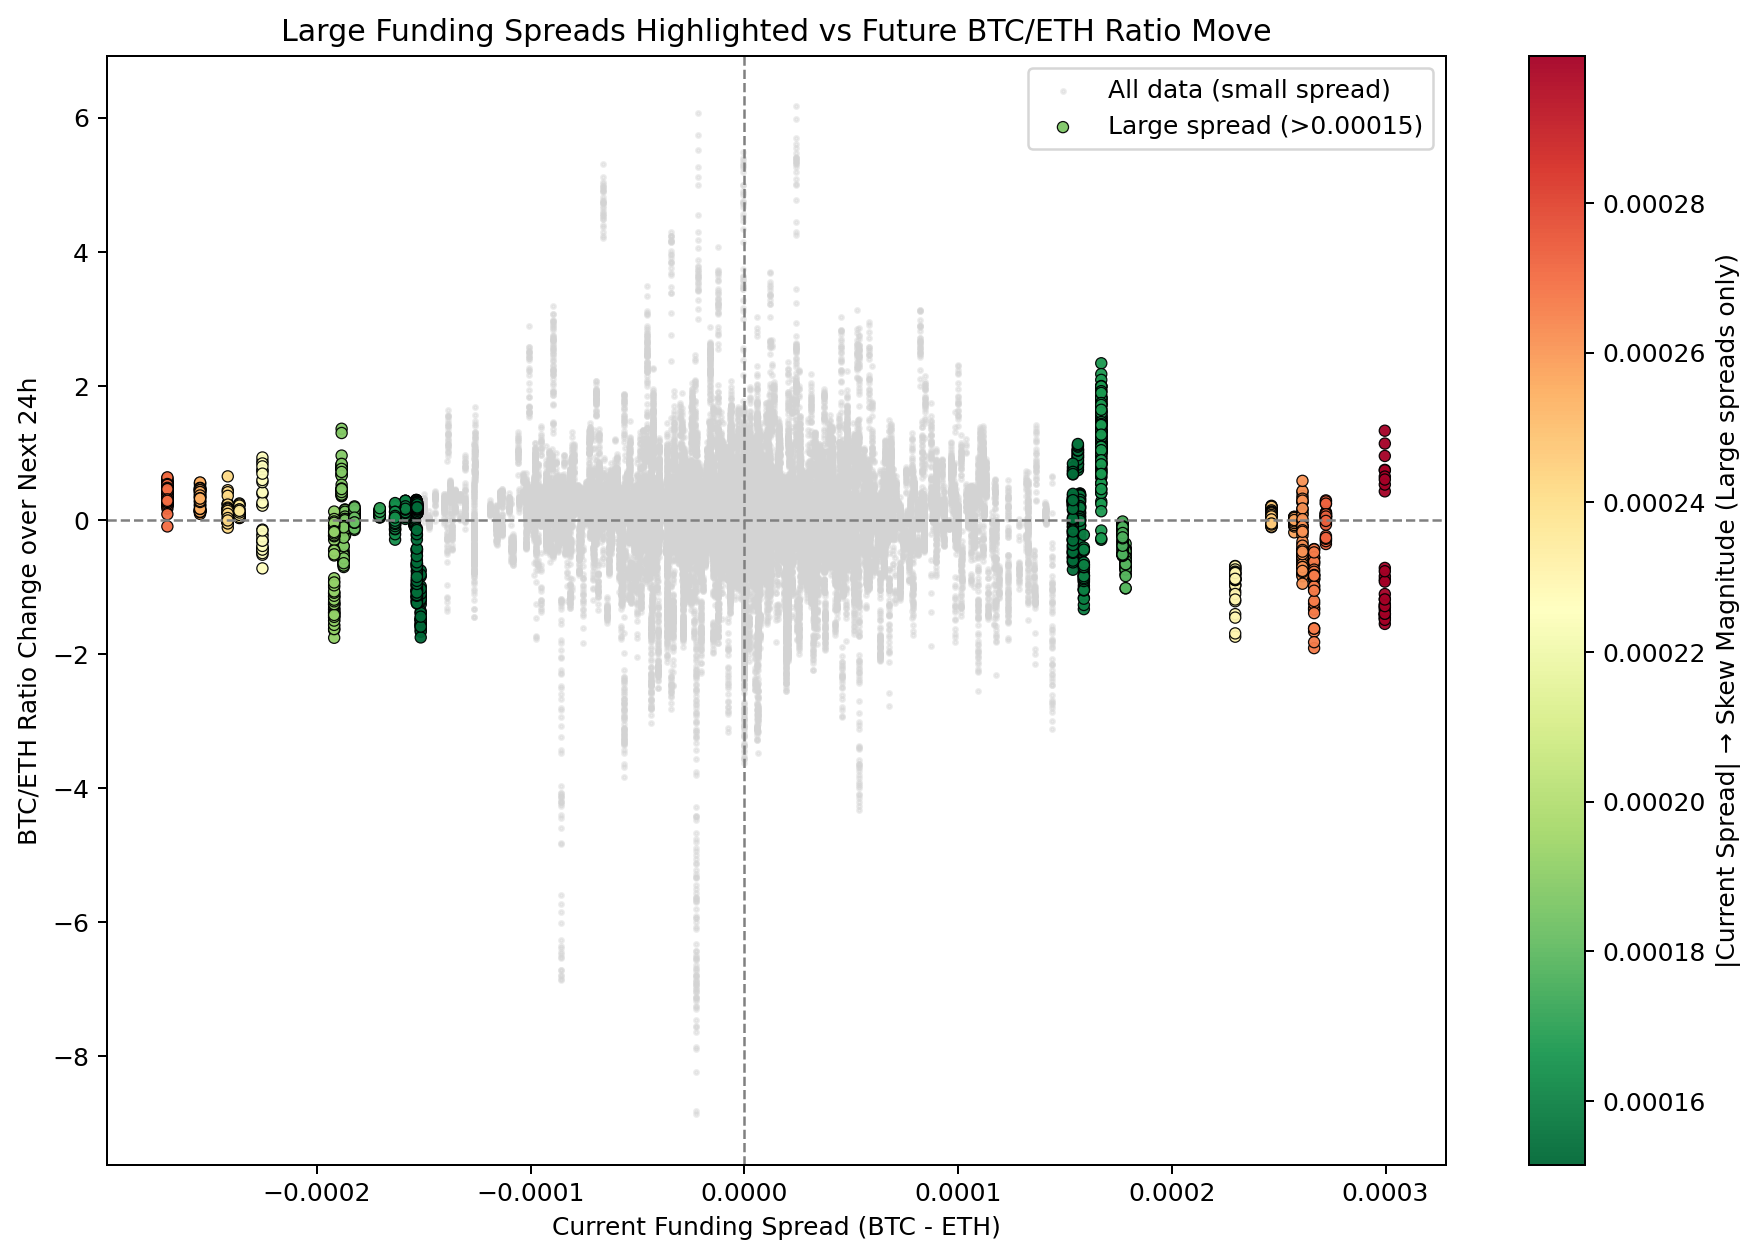
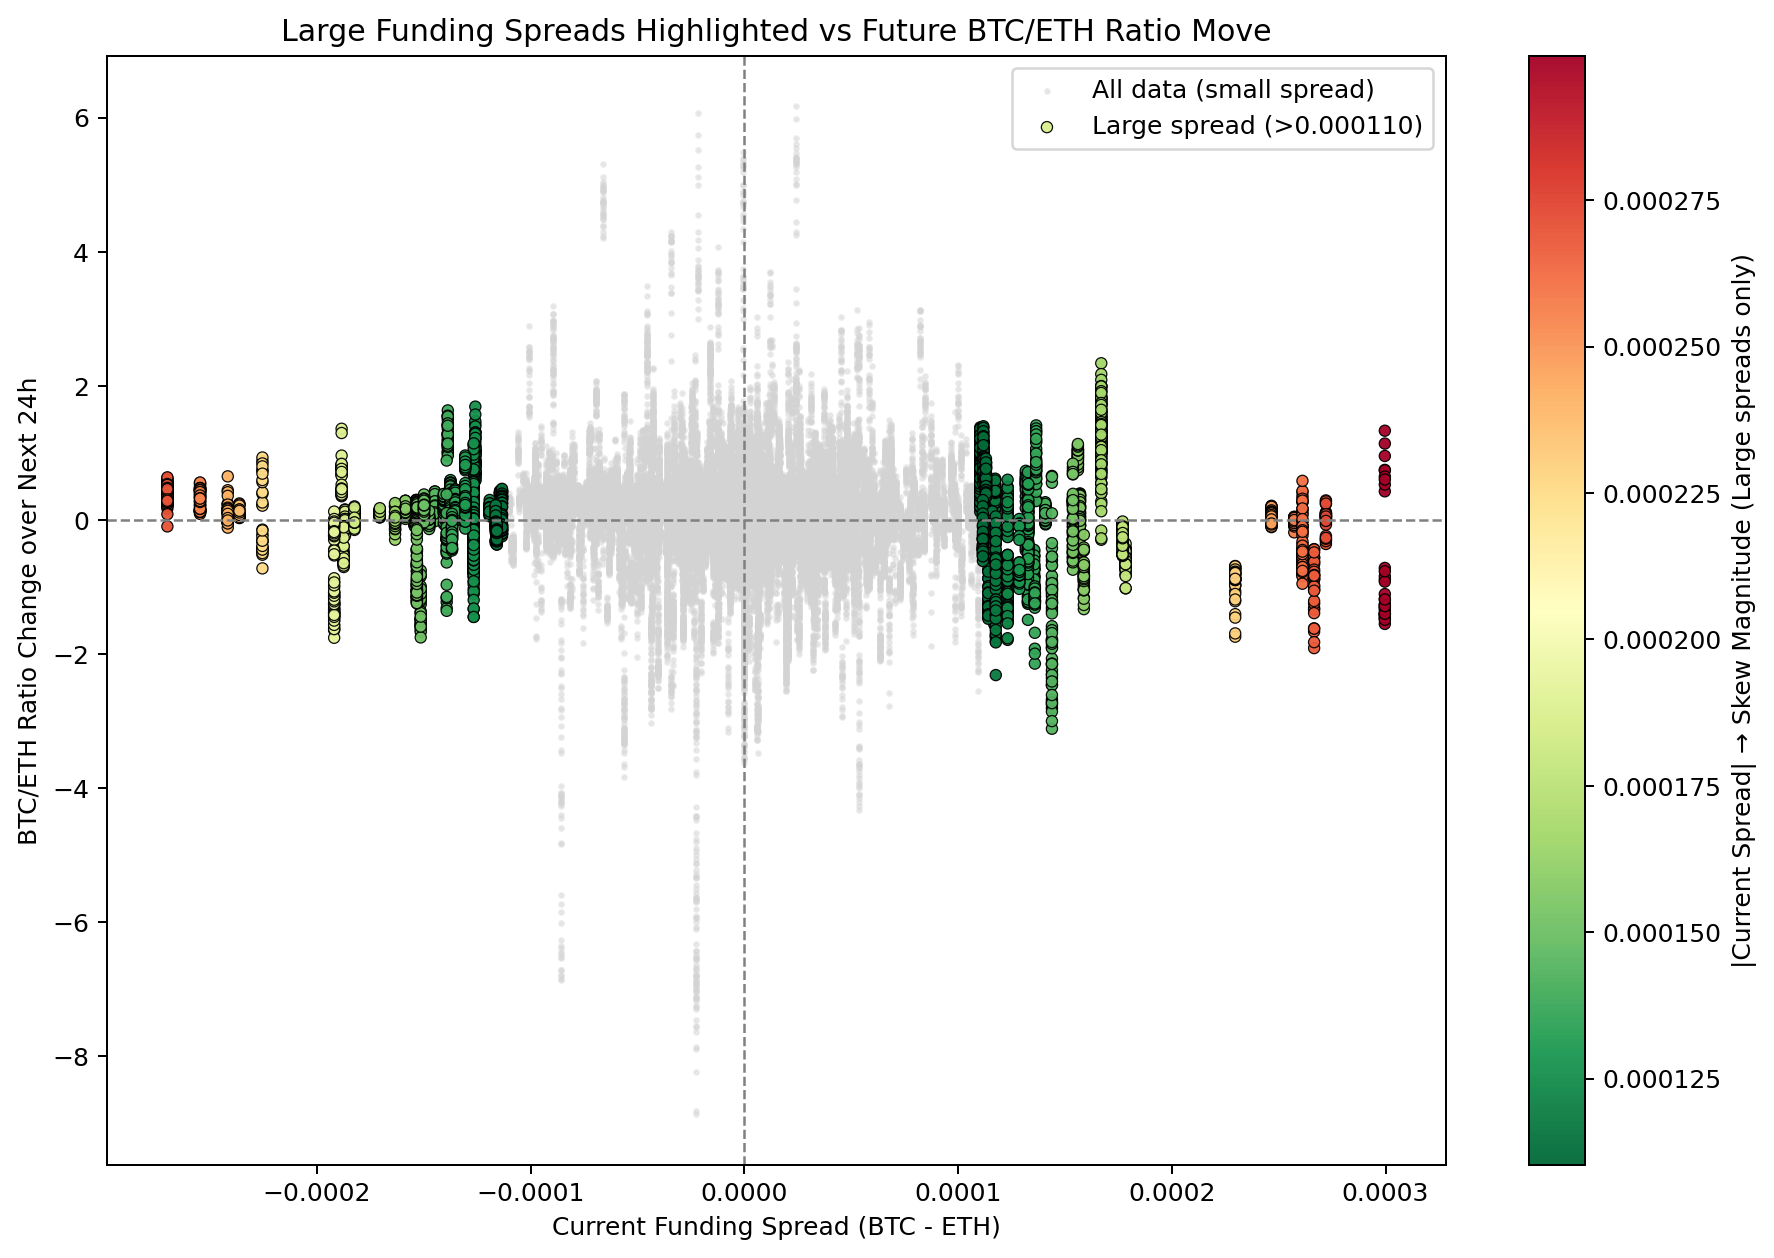
dynamically adjusted red lines

diff --git a/src/funding_and_oi/analyzeData.py b/src/funding_and_oi/analyzeData.py
@@ -21,7 +21,13 @@ print(f"Spread skewness: {stats.skew(df['funding_spread']):.3f}")
 
 abs_spread = np.abs(df['funding_spread'])
 
+# === DYNAMIC LARGE SPREAD THRESHOLD (top 5% largest spreads) ===
+large_spread_threshold = df['funding_spread'].abs().quantile(0.95)
+print(f"\n=== LARGE FUNDING SPREAD THRESHOLD (dynamic) ===")
+print(f"Top 5% largest |spread| threshold: {large_spread_threshold:.6f}")
+
 # ====================== MAIN PNG ======================
+# (unchanged - same as before)
 fig_main = plt.figure(figsize=(16, 22), constrained_layout=True)
 
 ax1 = fig_main.add_subplot(4, 1, 1)
@@ -66,6 +72,7 @@ fig_main.suptitle(f'BTC-ETH Funding Main Analysis\n{df.index[0].date()} — {df.
 plt.savefig('btc_eth_funding_main.png', dpi=180, bbox_inches='tight', facecolor='white')
 
 # ====================== EXTRA PNG ======================
+# (unchanged)
 fig_extra = plt.figure(figsize=(16, 9), constrained_layout=True)
 
 ax5 = fig_extra.add_subplot(1, 2, 1)
@@ -96,11 +103,12 @@ plt.figure(figsize=(12, 8))
 plt.scatter(df['funding_spread'], df['ratio_24h_change'],
             c='lightgray', s=3, alpha=0.4, label='All data (small spread)')
 
-large_mask = abs_spread > 0.00015
+large_mask = abs_spread > large_spread_threshold
 sc3 = plt.scatter(df.loc[large_mask, 'funding_spread'], 
                   df.loc[large_mask, 'ratio_24h_change'],
                   c=abs_spread[large_mask], cmap='RdYlGn_r', s=20, alpha=0.95, 
-                  edgecolor='black', linewidth=0.5, label='Large spread (>0.00015)')
+                  edgecolor='black', linewidth=0.5, 
+                  label=f'Large spread (>{large_spread_threshold:.6f})')
 
 plt.colorbar(sc3, label='|Current Spread| → Skew Magnitude (Large spreads only)')
 plt.axhline(0, color='gray', ls='--', lw=1)
@@ -120,12 +128,13 @@ print(f"\n=== PREDICTING LARGE BTC/ETH RATIO MOVES (top 10% magnitude) ===")
 print(f"Large move threshold (|24h ratio change|): {large_ratio_threshold:.4f}")
 
 baseline = df['large_ratio_move'].mean()
-when_large_spread = df[abs_spread > 0.00015]['large_ratio_move'].mean()
+when_large_spread = df[abs_spread > large_spread_threshold]['large_ratio_move'].mean()
 
 print(f"Baseline probability of large move: {baseline:.1%}")
-print(f"When |spread| > 0.00015 → probability of large move: {when_large_spread:.1%}")
+print(f"When |spread| > {large_spread_threshold:.6f} → probability of large move: {when_large_spread:.1%}")
 print(f"Lift: {when_large_spread / baseline:.2f}x more likely")
 
+# (rest of the large ratio moves chart unchanged)
 plt.figure(figsize=(12, 8))
 plt.scatter(df['funding_spread'], df['ratio_24h_change'],
             c='lightgray', s=3, alpha=0.4)
@@ -150,14 +159,13 @@ big_div = df.nlargest(10, 'funding_spread_abs')
 print("\nTop 10 largest funding spreads and 24h BTC/ETH ratio change afterward:")
 print(big_div[['funding_spread', 'ratio_24h_change']].round(6))
 
-# ====================== SIMPLE SINGLE-LINE 14D FUNDING SPREAD CHART (KST) ======================
-print("\nGenerating Simple 14D Funding Spread Chart (single line, tight Y, KST)...")
+# ====================== SIMPLE SINGLE-LINE 14D FUNDING SPREAD CHART (KST + DYNAMIC LARGE SPREAD LINES) ======================
+print("\nGenerating Simple 14D Funding Spread Chart (KST + dynamic large-spread lines)...")
 
 end_time = df.index.max()
 start_time = end_time - pd.Timedelta(days=14)
 recent_df = df[(df.index >= start_time) & (df.index <= end_time)].copy()
 
-# Convert to KST (UTC+9, no DST)
 recent_df = recent_df.copy()
 recent_df.index = recent_df.index.tz_localize('UTC').tz_convert('Asia/Seoul')
 
@@ -170,23 +178,27 @@ fig, ax = plt.subplots(figsize=(15, 8.5))
 
 spread_scaled = recent_df['funding_spread'] * 1_000_000
 
-# Clean single purple line only
 ax.plot(recent_df.index, spread_scaled, 
         color='purple', lw=3.5, marker='o', markersize=3.5, 
         label='BTC-ETH Funding Spread (Delta)')
 
 ax.axhline(0, color='black', ls='--', lw=1.5)
 
-# Tight Y-zoom focused only on the actual spread values
+# === DYNAMIC LARGE SPREAD THRESHOLDS ===
+large_spread_scaled = large_spread_threshold * 1_000_000
+ax.axhline(large_spread_scaled, color='red', ls='--', lw=1.8, alpha=0.85, 
+           label=f'Large Spread Threshold (±{large_spread_threshold:.6f})')
+ax.axhline(-large_spread_scaled, color='red', ls='--', lw=1.8, alpha=0.85)
+
+# Tight Y-zoom that always shows the thresholds
 data_min = spread_scaled.min()
 data_max = spread_scaled.max()
-data_range = data_max - data_min
-if data_range < 0.1:
-    data_range = 1.0
+data_range = max(data_max - data_min, 1.0)
 padding = 0.25 * data_range
-ax.set_ylim(data_min - padding, data_max + padding)
+ax.set_ylim(min(data_min - padding, -large_spread_scaled*1.15), 
+            max(data_max + padding, large_spread_scaled*1.15))
 
-# Big current-value annotation
+# Current-value annotation
 current_spread = recent_df['funding_spread'].iloc[-1]
 current_scaled = current_spread * 1_000_000
 
@@ -199,11 +211,10 @@ ax.annotate(f'CURRENT SPREAD\n{current_spread:+.8f}\n({current_scaled:+.2f} ×10
 
 ax.set_title('BTC - ETH Funding Rate Difference (Last 14 Days)', fontsize=18, fontweight='bold', pad=20)
 ax.set_ylabel('Spread × 1,000,000', fontsize=14)
-ax.set_xlabel('Time (KST)')                    # ← now KST
-ax.legend(fontsize=12, loc='upper right')
+ax.set_xlabel('Time (KST)')
+ax.legend(fontsize=11, loc='upper right')
 ax.grid(True, alpha=0.35)
 
-# Updated suptitle with KST time
 fig.suptitle(f'Latest data: {recent_df.index[-1].strftime("%Y-%m-%d %H:%M KST")}', 
              fontsize=13, y=0.97)
 
@@ -212,7 +223,7 @@ plt.tight_layout()
 plt.savefig('btc_eth_funding_14d_delta.png', dpi=260, bbox_inches='tight', facecolor='white')
 plt.close()
 
-print(f"   • btc_eth_funding_14d_delta.png  (KST version | Current: {current_spread:+.8f})")
+print(f"   • btc_eth_funding_14d_delta.png  (KST + dynamic ±{large_spread_threshold:.6f} lines | Current: {current_spread:+.8f})")
 
 # ====================== FINAL MESSAGE ======================
 print("\n✅ ALL DONE! Files saved:")
